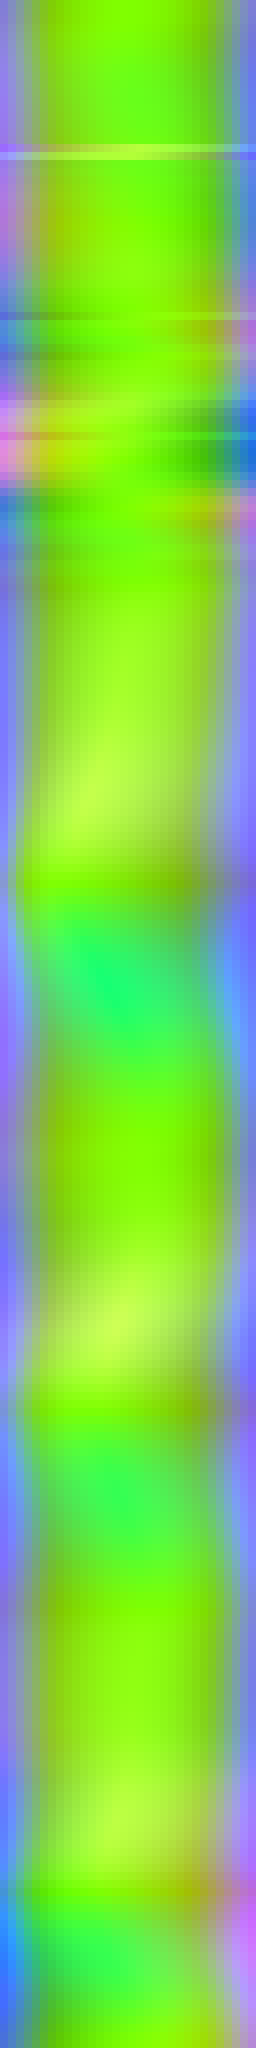
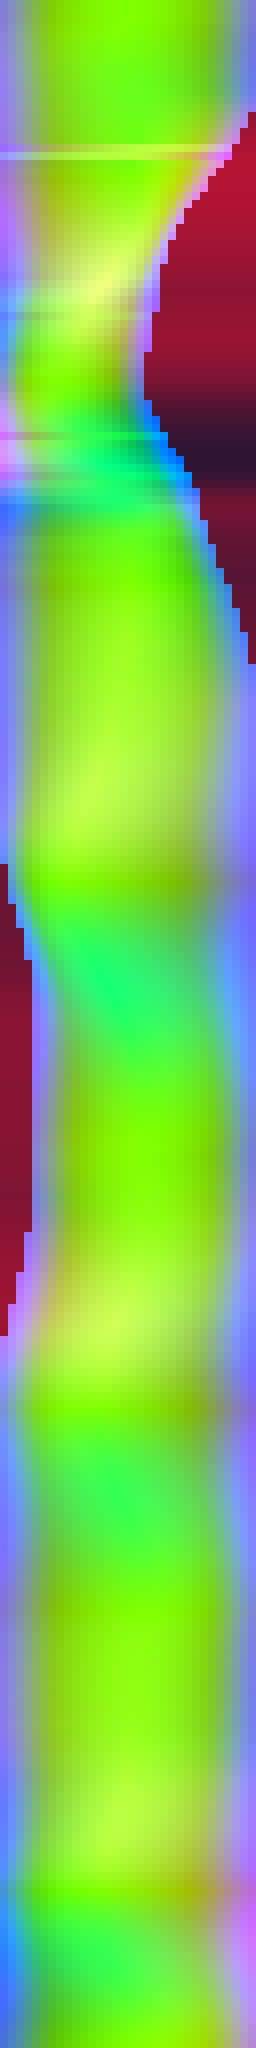
autosave: Rainbow 2026-11-16 13:22 UTC
Automated Rainbow backup (daemon). 7 file(s) changed.
Transcripts: refreshed (repo verified private)

Claude-Session: https://claude.ai/code/session_01VCMXoZdcyzCFdBum9wN5EU

Changed region(s): [[0.0, 0.0312, 1.0, 0.3438], [0.0, 0.4062, 0.3125, 0.6875]]

diff --git a/scripts/flow05-dump.ts b/scripts/flow05-dump.ts
@@ -8,8 +8,12 @@
  */
 import { mkdirSync, writeFileSync } from 'node:fs';
 import { deflateSync } from 'node:zlib';
-import { Course } from '../src/world/course';
-import { FLOW_H, FLOW_W, RIPPLE_N, flowField05, rippleData05 } from '../src/vfx/flow05';
+
+// the switches are read from location.search when the game modules load: dump the map of the W11 demonstration
+// (foam shelves included) unless --default is given
+if (!process.argv.includes('--default')) (globalThis as unknown as { location: { search: string } }).location = { search: '?river05=1' };
+const { Course } = await import('../src/world/course');
+const { FLOW_H, FLOW_W, RIPPLE_N, flowField05, rippleData05 } = await import('../src/vfx/flow05');
 
 const out = (process.argv.find((a) => a.startsWith('--out=')) ?? '--out=qa/pilot05/wave11/flowmap').slice(6);
 mkdirSync(out, { recursive: true });

diff --git a/backups/claude-sessions/915f17cf-eec0-5ae4-8e79-48acc1826719/transcript.md b/backups/claude-sessions/915f17cf-eec0-5ae4-8e79-48acc1826719/transcript.md
@@ -2050,3 +2050,131 @@ The flow map now generates and exports as an inspectable image. I'm fixing a typ
 
 > 🔧 **Bash** `{"command": "git mv -f tools/qa/flow05_dump.ts scripts/flow05-dump.ts 2>/dev/null || mv tools/qa/flow05_dump.ts scripts/flow05-dump.ts; sed -i \"s|npx vite-node tools/qa/flow05_dump.ts|npx vite-node scripts/flow05-dump.ts|; s|from '../../src/world/course'|from '../src/world/course'|; s|from '../../src/vfx/flow05'|from '../src/vfx/flow05'|\" scripts/flow05-dump.ts && sed -i 's|`tools/qa/flow05_dump.ts` writes both textures as PNG|`scripts/flow05-dump.ts` writes both textures as PNG|' src/vfx/flow05.ts && npx tsc --noEmit 2>&1 | head -5; npx vite-node scripts/flow05-dump.ts 2>&1 | tail -2; ls -l …[+121 chars]`
 
+### 🧑 User — 2026-11-16T13:16:56.758Z
+
+> ↩ result: {"out":"qa/pilot05/wave11/flowmap","flowMap":[32,256],"s0":112.69,"len":82.24,"maxLateral":0.496,"meanSpeed":0.817,"ripple":128}
+> total 152
+> drwxr-xr-x 2 root root  4096 Nov 16 13:16 .
+> drwxr-xr-x 3 root root  4096 Nov 16 13:16 ..
+> -rw-r--r-- 1 root root 32510 Nov 16 13:16 flowmap05.png
+> -rw-r--r-- 1 root root 38259 Nov 16 13:16 flowmap05_view.png
+> -rw-r--r-- 1 root root 51173 Nov 16 13:16 ripple05.png
+> -rw-r--r-- 1 root root 20270 Nov 16 13:16 ripple05_height.png
+> [This command modified 1 file you've previously read: src/vfx/flow05.ts. Call Read before editing.]
+
+### 🤖 Claude — 2026-11-16T13:17:03.970Z
+
+> 🔧 **Bash** `{"command": "python3 - <<'EOF'\np='scripts/flow05-dump.ts'; s=open(p).read()\nold=\"\"\"import { Course } from '../src/world/course';\nimport { FLOW_H, FLOW_W, RIPPLE_N, flowField05, rippleData05 } from '../src/vfx/flow05';\n\"\"\"\nassert s.count(old)==1\ns=s.replace(old,\"\"\"\n// the switches are read from location.search when the game modules load: dump the map of the W11 demonstration\n// (foam shelves included) unless --default is given\nif (!process.argv.includes('--default')) (globalThis as unknown as { location: { search: string } }).location = { search: '?river05=1' };\nconst { Cours …[+311 chars]`
+
+### 🧑 User — 2026-11-16T13:17:05.128Z
+
+> ↩ result: {"out":"qa/pilot05/wave11/flowmap","flowMap":[32,256],"s0":112.69,"len":82.24,"maxLateral":0.6,"meanSpeed":0.75,"ripple":128}
+
+### 🤖 Claude — 2026-11-16T13:17:10.329Z
+
+> 🔧 **Bash** `{"command": "S=/tmp/claude-0/-home-user-rainbow-/915f17cf-eec0-5ae4-8e79-48acc1826719/scratchpad && python3 -I -c \"\nfrom PIL import Image\nv=Image.open('qa/pilot05/wave11/flowmap/flowmap05_view.png').convert('RGB')\nr=Image.open('qa/pilot05/wave11/flowmap/ripple05.png').convert('RGB').resize((256,256), Image.NEAREST)\nh=Image.open('qa/pilot05/wave11/flowmap/ripple05_height.png').convert('RGB').resize((256,256), Image.NEAREST)\n# rotate the flow view so downstream runs to the right, for a compact look\nv2=v.rotate(-90, expand=True).resize((1024,128))\no=Image.new('RGB',(1024,128+10+256),'blac …[+159 chars]`
+
+### 🧑 User — 2026-11-16T13:17:10.469Z
+
+> ↩ result: (Bash completed with no output)
+
+### 🤖 Claude — 2026-11-16T13:17:11.423Z
+
+> 🔧 **Read** `{"file_path": "/tmp/claude-0/-home-user-rainbow-/915f17cf-eec0-5ae4-8e79-48acc1826719/scratchpad/flowview.png"}`
+
+### 🧑 User — 2026-11-16T13:17:11.436Z
+
+> ↩ result: [image]
+
+### 🤖 Claude — 2026-11-16T13:17:26.560Z
+
+The flow map clearly shows the fast core and both foam shelves. Now the regression batch: default and BEFORE pixel checks, neighbouring screens, low quality and animation.
+
+### 🤖 Claude — 2026-11-16T13:17:30.468Z
+
+> 🔧 **Bash** `{"command": "S=/tmp/claude-0/-home-user-rainbow-/915f17cf-eec0-5ae4-8e79-48acc1826719/scratchpad && rm -rf $S/t && (node $S/cap.mjs $S/t/05 default= before=ringa=26\\&nearfloor05=0 water=water05=1 farw=farw05=1 flow=flow05=1 river=river05=1 low=river05=1\\&quality=low lowdef=quality=low && node $S/cap.mjs $S/t/04 --id=04 default= river=river05=1 && node $S/cap.mjs $S/t/06 --id=06 default= river=river05=1 && node $S/cap.mjs $S/t/07 --id=07 default= river=river05=1 && node $S/cap.mjs $S/t/05b --t=12.6 river=river05=1 water=water05=1) 2>&1 | grep -v \"^$\" | tail -24", "description": "Run the Scr …[+52 chars]`
+
+### 🧑 User — 2026-11-16T13:21:40.654Z
+
+> ↩ result: default {"calls":86,"tris":567415,"errors":0}
+> before {"calls":86,"tris":567415,"errors":0}
+> water {"calls":86,"tris":567415,"errors":0}
+> farw {"calls":86,"tris":567415,"errors":0}
+> flow {"calls":86,"tris":567415,"errors":0}
+> river {"calls":86,"tris":567415,"errors":0}
+> low {"calls":86,"tris":425525,"errors":0}
+> lowdef {"calls":86,"tris":425525,"errors":0}
+> default {"calls":97,"tris":712274,"errors":0}
+> river {"calls":97,"tris":712274,"errors":0}
+> default {"calls":72,"tris":543081,"errors":0}
+> river {"calls":72,"tris":543081,"errors":0}
+> default {"calls":181,"tris":660599,"errors":0}
+> river {"calls":181,"tris":660599,"errors":0}
+> river {"calls":86,"tris":567415,"errors":0}
+> water {"calls":86,"tris":567415,"errors":0}
+
+### 🤖 Claude — 2026-11-16T13:21:41.964Z
+
+> 🔧 **TaskUpdate** `{"taskId": "2", "status": "completed"}`
+
+### 🧑 User — 2026-11-16T13:21:41.981Z
+
+> ↩ result: Updated task #2 status
+
+### 🤖 Claude — 2026-11-16T13:21:42.432Z
+
+> 🔧 **TaskUpdate** `{"taskId": "3", "status": "completed"}`
+
+### 🧑 User — 2026-11-16T13:21:42.443Z
+
+> ↩ result: Updated task #3 status
+
+### 🤖 Claude — 2026-11-16T13:21:42.906Z
+
+> 🔧 **TaskUpdate** `{"taskId": "4", "status": "in_progress"}`
+
+### 🧑 User — 2026-11-16T13:21:42.919Z
+
+> ↩ result: Updated task #4 status
+
+### 🤖 Claude — 2026-11-16T13:21:51.075Z
+
+> 🔧 **Bash** `{"command": "S=/tmp/claude-0/-home-user-rainbow-/915f17cf-eec0-5ae4-8e79-48acc1826719/scratchpad && python3 -I - \"$S\" <<'EOF'\nimport sys, numpy as np\nfrom PIL import Image\nS=sys.argv[1]\ndef L(p): return np.asarray(Image.open(p).convert('RGB')).astype(int)\ndef cmp(n,a,b,box=None):\n    A,B=L(a),L(b)\n    d=np.abs(A-B).max(-1)\n    ys,xs=np.where(d>0)\n    bb=(int(xs.min()),int(xs.max()),int(ys.min()),int(ys.max())) if len(ys) else None\n    # split HUD (y<200) vs scene\n    scene=d[200:]; hud=d[:200]\n    print(f'{n}: max {d.max()} | differing px {len(ys)} | bbox {bb} | scene(y>=200) px  …[+1088 chars]`
+
+### 🧑 User — 2026-11-16T13:21:52.742Z
+
+> ↩ result: DEFAULT vs current_default_05: max 0 | differing px 0 | bbox None | scene(y>=200) px 0 max 0 | HUD px 0
+> BEFORE (?ringa=26&nearfloor05=0) vs wave9 baseline: max 0 | differing px 0 | bbox None | scene(y>=200) px 0 max 0 | HUD px 0
+> water05 vs it04 05_NEW: max 0 | differing px 0 | bbox None | scene(y>=200) px 0 max 0 | HUD px 0
+> 04 river05 vs default: max 169 | differing px 70552 | bbox (0, 863, 1, 1112) | scene(y>=200) px 70260 max 169 | HUD px 292
+> 06 river05 vs default: max 0 | differing px 0 | bbox None | scene(y>=200) px 0 max 0 | HUD px 0
+> 07 river05 vs default: max 0 | differing px 0 | bbox None | scene(y>=200) px 0 max 0 | HUD px 0
+> river05 t=12.6 vs t=12.0 (animation): max 255 | differing px 801602 | bbox (0, 863, 87, 1535) | scene(y>=200) px 801260 max 255 | HUD px 342
+>   far block rows 485-560, x 400-620: changed px 2893 of 16500
+>   (water05 it04, same rows: changed px 1532 )
+
+### 🤖 Claude — 2026-11-16T13:22:00.918Z
+
+> 🔧 **Bash** `{"command": "grep -n \"goto(\\|qa=1\\|writeFileSync\\|process.argv\" scripts/gameplay-test.mjs | head -12; cat package.json | python3 -c \"import json,sys; print(json.dumps(json.load(sys.stdin)['scripts'],indent=1))\"", "description": "Inspect gameplay test and npm scripts"}`
+
+### 🧑 User — 2026-11-16T13:22:01.013Z
+
+> ↩ result: 11:import { writeFileSync, mkdirSync } from 'node:fs';
+> 21:await page.goto(`${vite.url}/?qa=1&dpr=1&bloom=0`);
+> 99:writeFileSync('qa/gameplay_test.json', JSON.stringify(result, null, 2));
+> 125:writeFileSync('qa/07_to_08_continuity.md', md.join('\n') + '\n');
+> {
+>  "dev": "vite --host 0.0.0.0",
+>  "build": "tsc --noEmit && vite build",
+>  "preview": "vite preview --host 0.0.0.0 --port 4173",
+>  "typecheck": "tsc --noEmit",
+>  "test:continuity": "vite-node scripts/continuity-test.ts",
+>  "models:export": "node scripts/export-models.mjs",
+>  "qa:capture": "node scripts/capture.mjs",
+>  "qa:compare": "python3 scripts/compare.py",
+>  "verify:refs": "sha256sum -c scripts/reference.sha256",
+>  "android:sync": "npm run build && npx cap sync android",
+>  "android:debug": "npm run android:sync && cd android && ./gradlew assembleDebug",
+>  "test:cinematic": "node scripts/cinematic-test.mjs"
+> }
+

diff --git a/backups/CONVERSATION_INDEX.md b/backups/CONVERSATION_INDEX.md
@@ -22,7 +22,7 @@ Search tip: `grep -ril "07" backups/claude-sessions/*/transcript.md`
 | `78821565-d674-5be9-a7dd-5afd2dc12d7a` | Rainbow 3D Screen 05 recovery | `claude/rainbow-3d-account-recovery-xex5hc` | 2026-11-16T02:12:45.840Z | 2026-11-16T02:45:19.301Z | 13 | 209 | 4 | benny, girl, water, 07, 08, plunge, autosave, backup, android, playwright, blender, meshy, screens, towel, hud, coin, shader, agents | [md](claude-sessions/78821565-d674-5be9-a7dd-5afd2dc12d7a/transcript.md) · [jsonl](claude-sessions/78821565-d674-5be9-a7dd-5afd2dc12d7a/transcript.sanitized.jsonl) |
 | `b970f481-ce8a-5425-9ce8-c5468817acd1` | Screen preview | `ccr-44f84024-ii5iih` | 2026-11-16T03:12:12.594Z | 2026-11-16T10:37:41.097Z | 12 | 232 | 0 | benny, girl, water, 07, 08, plunge, autosave, backup, android, playwright, blender, meshy, screens, towel, hud, coin, shader, agents | [md](claude-sessions/b970f481-ce8a-5425-9ce8-c5468817acd1/transcript.md) · [jsonl](claude-sessions/b970f481-ce8a-5425-9ce8-c5468817acd1/transcript.sanitized.jsonl) |
 | `b0c98594-8c52-535c-98f7-8620eee46a82` | Rainbow 3D permanent setup and GitHub backups | `ccr-251ed97c-ty2xvp` | 2026-11-16T10:44:03.653Z | 2026-11-16T12:31:50.212Z | 16 | 590 | 1 | benny, girl, water, 07, 08, plunge, autosave, backup, android, playwright, blender, meshy, screens, towel, hud, coin, shader, agents | [md](claude-sessions/b0c98594-8c52-535c-98f7-8620eee46a82/transcript.md) · [jsonl](claude-sessions/b0c98594-8c52-535c-98f7-8620eee46a82/transcript.sanitized.jsonl) |
-| `915f17cf-eec0-5ae4-8e79-48acc1826719` | Rainbow 3D account recovery and Screen 05 water | `claude/rainbow-3d-account-recovery-hfb8p0` | 2026-11-16T12:46:10.474Z | 2026-11-16T13:16:52.282Z | 1 | 201 | 0 | benny, girl, water, 07, 08, plunge, autosave, backup, android, playwright, blender, meshy, screens, towel, hud, coin, shader, agents | [md](claude-sessions/915f17cf-eec0-5ae4-8e79-48acc1826719/transcript.md) · [jsonl](claude-sessions/915f17cf-eec0-5ae4-8e79-48acc1826719/transcript.sanitized.jsonl) |
+| `915f17cf-eec0-5ae4-8e79-48acc1826719` | Rainbow 3D account recovery and Screen 05 water | `claude/rainbow-3d-account-recovery-hfb8p0` | 2026-11-16T12:46:10.474Z | 2026-11-16T13:22:02.958Z | 1 | 215 | 0 | benny, girl, water, 07, 08, plunge, autosave, backup, android, playwright, blender, meshy, screens, towel, hud, coin, shader, agents | [md](claude-sessions/915f17cf-eec0-5ae4-8e79-48acc1826719/transcript.md) · [jsonl](claude-sessions/915f17cf-eec0-5ae4-8e79-48acc1826719/transcript.sanitized.jsonl) |
 
 ## Restore / resume
 

diff --git a/backups/BACKUP_LOG.md b/backups/BACKUP_LOG.md
@@ -289,3 +289,4 @@ Post "https://lfs.github.com/josiahscalia5-dev/rainbow-/objects/8567f56ef76fa3ef
 | 2026-11-16T13:01:31+00:00 | daemon | committed+pushed | `84c8f96eba24` | `claude/rainbow-3d-account-recovery-hfb8p0` | 4 | True |  |
 | 2026-11-16T13:06:40+00:00 | daemon | committed+pushed | `d023c2a2f427` | `claude/rainbow-3d-account-recovery-hfb8p0` | 7 | True |  |
 | 2026-11-16T13:11:47+00:00 | daemon | committed+pushed | `fe76bf8a73e0` | `claude/rainbow-3d-account-recovery-hfb8p0` | 8 | True |  |
+| 2026-11-16T13:16:54+00:00 | daemon | committed+pushed | `511545c59b75` | `claude/rainbow-3d-account-recovery-hfb8p0` | 12 | True |  |
